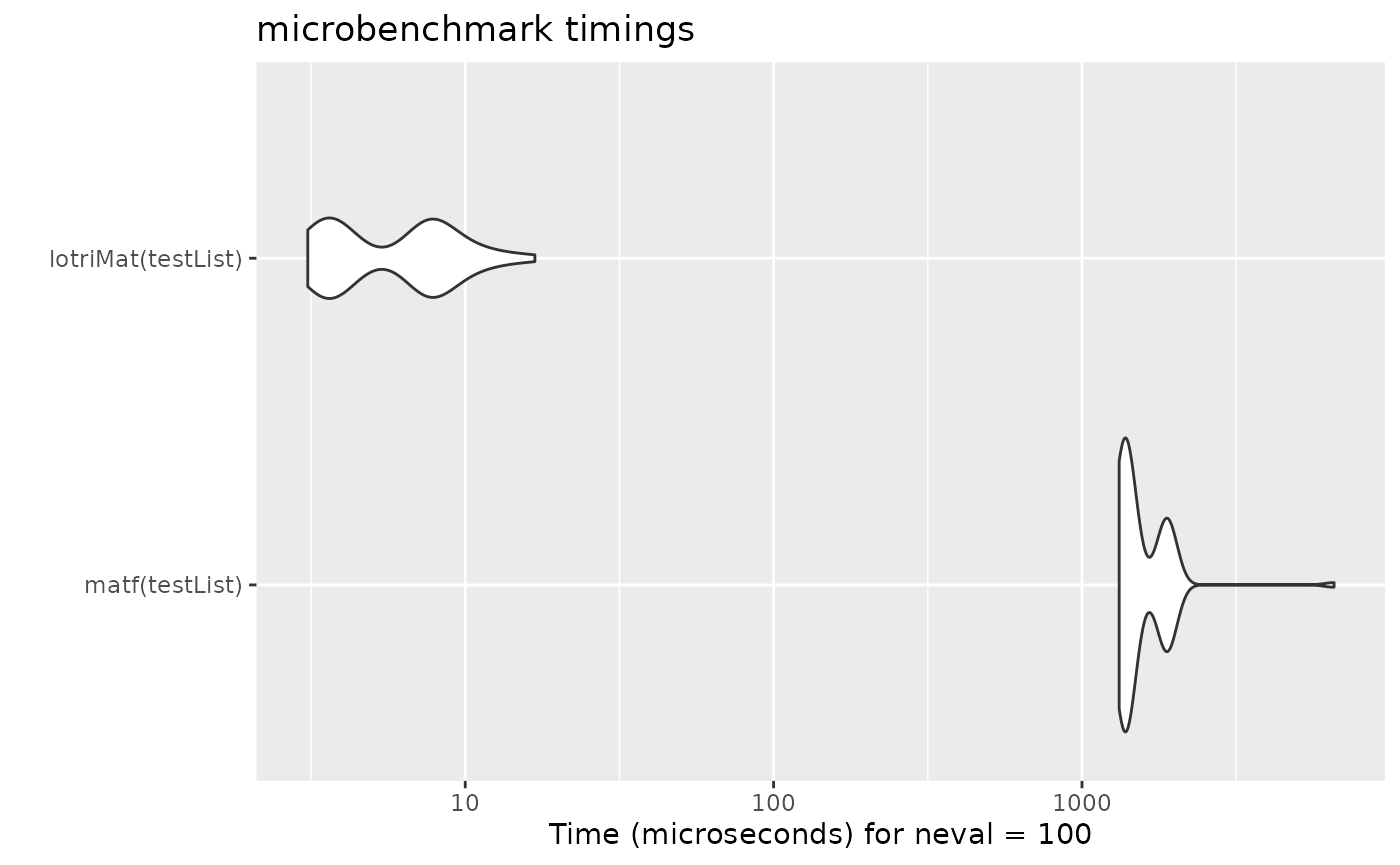
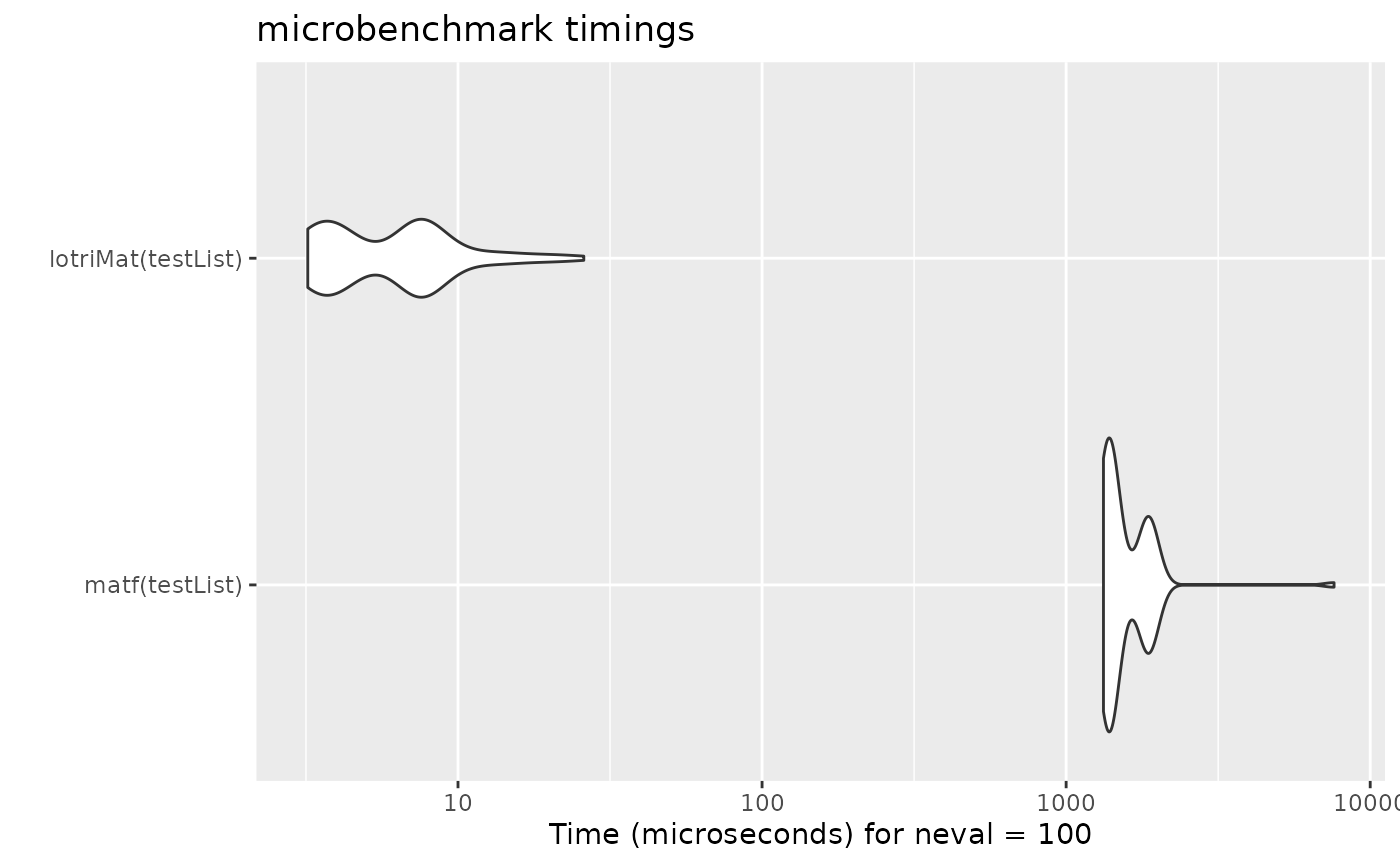
Deploying to gh-pages from @ nlmixr2/lotri@191af481f1d3182144ef876b7c04e082d0ac4536 🚀

diff --git a/reference/dot-lotriPointers.html b/reference/dot-lotriPointers.html
@@ -32,7 +32,7 @@
 <div class="row">
   <main id="main" class="col-md-9"><div class="page-header">
       <img src="../logo.png" class="logo" alt=""><h1>This function is used to get the pointers to the C objects that are used in the lotri package.</h1>
-      <small class="dont-index">Source: <a href="https://github.com/nlmixr2/lotri/blob/main/R/lotriPtrs.R" class="external-link"><code>R/lotriPtrs.R</code></a></small>
+      <small class="dont-index">Source: <a href="https://github.com/nlmixr2/lotri/blob/v1.0.0/R/lotriPtrs.R" class="external-link"><code>R/lotriPtrs.R</code></a></small>
       <div class="d-none name"><code>dot-lotriPointers.Rd</code></div>
     </div>
 
@@ -59,34 +59,34 @@
     <div class="sourceCode"><pre class="sourceCode r"><code><span class="r-in"><span></span></span>
 <span class="r-in"><span><span class="fu">.lotriPointers</span><span class="op">(</span><span class="op">)</span></span></span>
 <span class="r-out co"><span class="r-pr">#&gt;</span> $lotriLstToMat</span>
-<span class="r-out co"><span class="r-pr">#&gt;</span> &lt;pointer: 0x7f3417e36f40&gt;</span>
+<span class="r-out co"><span class="r-pr">#&gt;</span> &lt;pointer: 0x7f610ae92f40&gt;</span>
 <span class="r-out co"><span class="r-pr">#&gt;</span> </span>
 <span class="r-out co"><span class="r-pr">#&gt;</span> $asLotriMat</span>
-<span class="r-out co"><span class="r-pr">#&gt;</span> &lt;pointer: 0x7f3417e351b0&gt;</span>
+<span class="r-out co"><span class="r-pr">#&gt;</span> &lt;pointer: 0x7f610ae911b0&gt;</span>
 <span class="r-out co"><span class="r-pr">#&gt;</span> </span>
 <span class="r-out co"><span class="r-pr">#&gt;</span> $lotriSep</span>
-<span class="r-out co"><span class="r-pr">#&gt;</span> &lt;pointer: 0x7f3417e38f40&gt;</span>
+<span class="r-out co"><span class="r-pr">#&gt;</span> &lt;pointer: 0x7f610ae94f40&gt;</span>
 <span class="r-out co"><span class="r-pr">#&gt;</span> </span>
 <span class="r-out co"><span class="r-pr">#&gt;</span> $lotriAllNames</span>
-<span class="r-out co"><span class="r-pr">#&gt;</span> &lt;pointer: 0x7f3417e39510&gt;</span>
+<span class="r-out co"><span class="r-pr">#&gt;</span> &lt;pointer: 0x7f610ae95510&gt;</span>
 <span class="r-out co"><span class="r-pr">#&gt;</span> </span>
 <span class="r-out co"><span class="r-pr">#&gt;</span> $lotriGetBounds</span>
-<span class="r-out co"><span class="r-pr">#&gt;</span> &lt;pointer: 0x7f3417e35750&gt;</span>
+<span class="r-out co"><span class="r-pr">#&gt;</span> &lt;pointer: 0x7f610ae91750&gt;</span>
 <span class="r-out co"><span class="r-pr">#&gt;</span> </span>
 <span class="r-out co"><span class="r-pr">#&gt;</span> $lotriMaxNu</span>
-<span class="r-out co"><span class="r-pr">#&gt;</span> &lt;pointer: 0x7f3417e38a10&gt;</span>
+<span class="r-out co"><span class="r-pr">#&gt;</span> &lt;pointer: 0x7f610ae94a10&gt;</span>
 <span class="r-out co"><span class="r-pr">#&gt;</span> </span>
 <span class="r-out co"><span class="r-pr">#&gt;</span> $isLotri</span>
-<span class="r-out co"><span class="r-pr">#&gt;</span> &lt;pointer: 0x7f3417e393f0&gt;</span>
+<span class="r-out co"><span class="r-pr">#&gt;</span> &lt;pointer: 0x7f610ae953f0&gt;</span>
 <span class="r-out co"><span class="r-pr">#&gt;</span> </span>
 <span class="r-out co"><span class="r-pr">#&gt;</span> $lotriRcm</span>
-<span class="r-out co"><span class="r-pr">#&gt;</span> &lt;pointer: 0x7f3417e44490&gt;</span>
+<span class="r-out co"><span class="r-pr">#&gt;</span> &lt;pointer: 0x7f610aea0490&gt;</span>
 <span class="r-out co"><span class="r-pr">#&gt;</span> </span>
 <span class="r-out co"><span class="r-pr">#&gt;</span> $lotriNearPDc</span>
-<span class="r-out co"><span class="r-pr">#&gt;</span> &lt;pointer: 0x7f3417e3e7f0&gt;</span>
+<span class="r-out co"><span class="r-pr">#&gt;</span> &lt;pointer: 0x7f610ae9a7f0&gt;</span>
 <span class="r-out co"><span class="r-pr">#&gt;</span> </span>
 <span class="r-out co"><span class="r-pr">#&gt;</span> $lotriNearPDsexp</span>
-<span class="r-out co"><span class="r-pr">#&gt;</span> &lt;pointer: 0x7f3417e3ed60&gt;</span>
+<span class="r-out co"><span class="r-pr">#&gt;</span> &lt;pointer: 0x7f610ae9ad60&gt;</span>
 <span class="r-out co"><span class="r-pr">#&gt;</span> </span>
 </code></pre></div>
     </div>
@@ -99,7 +99,7 @@
 </div>
 
 <div class="pkgdown-footer-right">
-  <p>Site built with <a href="https://pkgdown.r-lib.org/" class="external-link">pkgdown</a> 2.1.0.</p>
+  <p>Site built with <a href="https://pkgdown.r-lib.org/" class="external-link">pkgdown</a> 2.1.1.</p>
 </div>
 
     </footer></div>

diff --git a/articles/lotri-motivation.html b/articles/lotri-motivation.html
@@ -65,9 +65,9 @@
                         <h4 data-toc-skip class="author">Matthew
 Fidler</h4>
             
-            <h4 data-toc-skip class="date">2024-09-17</h4>
+            <h4 data-toc-skip class="date">2024-09-20</h4>
       
-      <small class="dont-index">Source: <a href="https://github.com/nlmixr2/lotri/blob/main/vignettes/lotri-motivation.Rmd" class="external-link"><code>vignettes/lotri-motivation.Rmd</code></a></small>
+      <small class="dont-index">Source: <a href="https://github.com/nlmixr2/lotri/blob/v1.0.0/vignettes/lotri-motivation.Rmd" class="external-link"><code>vignettes/lotri-motivation.Rmd</code></a></small>
       <div class="d-none name"><code>lotri-motivation.Rmd</code></div>
     </div>
 
@@ -228,9 +228,9 @@ concatenation with <code>lotriMat</code></p>
 <span></span>
 <span><span class="fu"><a href="https://rdrr.io/r/base/print.html" class="external-link">print</a></span><span class="op">(</span><span class="va">mb</span><span class="op">)</span></span>
 <span><span class="co">#&gt; Unit: microseconds</span></span>
-<span><span class="co">#&gt;                expr      min       lq       mean   median       uq      max</span></span>
-<span><span class="co">#&gt;      matf(testList) 1320.123 1363.158 1586.04102 1417.069 1872.589 6568.926</span></span>
-<span><span class="co">#&gt;  lotriMat(testList)    3.086    3.742    6.43025    7.088    8.105   16.822</span></span>
+<span><span class="co">#&gt;                expr      min        lq       mean   median       uq      max</span></span>
+<span><span class="co">#&gt;      matf(testList) 1326.726 1371.4805 1598.07155 1407.292 1852.539 7606.430</span></span>
+<span><span class="co">#&gt;  lotriMat(testList)    3.206    3.8275    6.81062    6.933    7.875   25.928</span></span>
 <span><span class="co">#&gt;  neval</span></span>
 <span><span class="co">#&gt;    100</span></span>
 <span><span class="co">#&gt;    100</span></span>
@@ -249,7 +249,7 @@ concatenation with <code>lotriMat</code></p>
 </div>
 
 <div class="pkgdown-footer-right">
-  <p>Site built with <a href="https://pkgdown.r-lib.org/" class="external-link">pkgdown</a> 2.1.0.</p>
+  <p>Site built with <a href="https://pkgdown.r-lib.org/" class="external-link">pkgdown</a> 2.1.1.</p>
 </div>
 
     </footer>

diff --git a/news/index.html b/news/index.html
@@ -32,11 +32,11 @@
 <div class="row">
   <main id="main" class="col-md-9"><div class="page-header">
       <img src="../logo.png" class="logo" alt=""><h1>Changelog</h1>
-      <small>Source: <a href="https://github.com/nlmixr2/lotri/blob/main/NEWS.md" class="external-link"><code>NEWS.md</code></a></small>
+      <small>Source: <a href="https://github.com/nlmixr2/lotri/blob/v1.0.0/NEWS.md" class="external-link"><code>NEWS.md</code></a></small>
     </div>
 
     <div class="section level2">
-<h2 class="pkg-version" data-toc-text="1.0.0" id="lotri-100">lotri 1.0.0<a class="anchor" aria-label="anchor" href="#lotri-100"></a></h2>
+<h2 class="pkg-version" data-toc-text="1.0.0" id="lotri-100">lotri 1.0.0<a class="anchor" aria-label="anchor" href="#lotri-100"></a></h2><p class="text-muted">CRAN release: 2024-09-18</p>
 <ul><li>Added a new way of specifying lotri matrices:</li>
 </ul><p>Before you could specify matrices as:</p>
 <div class="sourceCode" id="cb1"><pre class="downlit sourceCode r">
@@ -132,7 +132,7 @@
 </div>
 
 <div class="pkgdown-footer-right">
-  <p>Site built with <a href="https://pkgdown.r-lib.org/" class="external-link">pkgdown</a> 2.1.0.</p>
+  <p>Site built with <a href="https://pkgdown.r-lib.org/" class="external-link">pkgdown</a> 2.1.1.</p>
 </div>
 
     </footer></div>

diff --git a/reference/rcm.html b/reference/rcm.html
@@ -34,7 +34,7 @@ which is used to permute the matrix to a banded matrix."><meta property="og:imag
 <div class="row">
   <main id="main" class="col-md-9"><div class="page-header">
       <img src="../logo.png" class="logo" alt=""><h1>Use the RCM algorithm to permute to banded matrix</h1>
-      <small class="dont-index">Source: <a href="https://github.com/nlmixr2/lotri/blob/main/R/rcm.R" class="external-link"><code>R/rcm.R</code></a></small>
+      <small class="dont-index">Source: <a href="https://github.com/nlmixr2/lotri/blob/v1.0.0/R/rcm.R" class="external-link"><code>R/rcm.R</code></a></small>
       <div class="d-none name"><code>rcm.Rd</code></div>
     </div>
 
@@ -107,7 +107,7 @@ which is used to permute the matrix to a banded matrix.</p>
 </div>
 
 <div class="pkgdown-footer-right">
-  <p>Site built with <a href="https://pkgdown.r-lib.org/" class="external-link">pkgdown</a> 2.1.0.</p>
+  <p>Site built with <a href="https://pkgdown.r-lib.org/" class="external-link">pkgdown</a> 2.1.1.</p>
 </div>
 
     </footer></div>

diff --git a/reference/lotriSep.html b/reference/lotriSep.html
@@ -34,7 +34,7 @@ not be useful for external function calls."><meta property="og:image" content="h
 <div class="row">
   <main id="main" class="col-md-9"><div class="page-header">
       <img src="../logo.png" class="logo" alt=""><h1>Separate a lotri matrix into above and below lotri matrices</h1>
-      <small class="dont-index">Source: <a href="https://github.com/nlmixr2/lotri/blob/main/R/lotri.R" class="external-link"><code>R/lotri.R</code></a></small>
+      <small class="dont-index">Source: <a href="https://github.com/nlmixr2/lotri/blob/v1.0.0/R/lotri.R" class="external-link"><code>R/lotri.R</code></a></small>
       <div class="d-none name"><code>lotriSep.Rd</code></div>
     </div>
 
@@ -144,7 +144,7 @@ you could use 'c(occ=3L)'</p></dd>
 </div>
 
 <div class="pkgdown-footer-right">
-  <p>Site built with <a href="https://pkgdown.r-lib.org/" class="external-link">pkgdown</a> 2.1.0.</p>
+  <p>Site built with <a href="https://pkgdown.r-lib.org/" class="external-link">pkgdown</a> 2.1.1.</p>
 </div>
 
     </footer></div>

diff --git a/reference/lotriAsExpression.html b/reference/lotriAsExpression.html
@@ -32,7 +32,7 @@
 <div class="row">
   <main id="main" class="col-md-9"><div class="page-header">
       <img src="../logo.png" class="logo" alt=""><h1>Change a matrix or lotri matrix to a lotri expression</h1>
-      <small class="dont-index">Source: <a href="https://github.com/nlmixr2/lotri/blob/main/R/as.expression.R" class="external-link"><code>R/as.expression.R</code></a></small>
+      <small class="dont-index">Source: <a href="https://github.com/nlmixr2/lotri/blob/v1.0.0/R/as.expression.R" class="external-link"><code>R/as.expression.R</code></a></small>
       <div class="d-none name"><code>lotriAsExpression.Rd</code></div>
     </div>
 
@@ -86,7 +86,7 @@ have a dimension above this number before names are displayed.</p></dd>
 </div>
 
 <div class="pkgdown-footer-right">
-  <p>Site built with <a href="https://pkgdown.r-lib.org/" class="external-link">pkgdown</a> 2.1.0.</p>
+  <p>Site built with <a href="https://pkgdown.r-lib.org/" class="external-link">pkgdown</a> 2.1.1.</p>
 </div>
 
     </footer></div>

diff --git a/reference/lotriMat.html b/reference/lotriMat.html
@@ -34,7 +34,7 @@ symmetric matrices."><meta property="og:image" content="https://nlmixr2.github.i
 <div class="row">
   <main id="main" class="col-md-9"><div class="page-header">
       <img src="../logo.png" class="logo" alt=""><h1>Create a matrix from a list of matrices</h1>
-      <small class="dont-index">Source: <a href="https://github.com/nlmixr2/lotri/blob/main/R/lotri.R" class="external-link"><code>R/lotri.R</code></a></small>
+      <small class="dont-index">Source: <a href="https://github.com/nlmixr2/lotri/blob/v1.0.0/R/lotri.R" class="external-link"><code>R/lotri.R</code></a></small>
       <div class="d-none name"><code>lotriMat.Rd</code></div>
     </div>
 
@@ -172,7 +172,7 @@ should start.</p></dd>
 </div>
 
 <div class="pkgdown-footer-right">
-  <p>Site built with <a href="https://pkgdown.r-lib.org/" class="external-link">pkgdown</a> 2.1.0.</p>
+  <p>Site built with <a href="https://pkgdown.r-lib.org/" class="external-link">pkgdown</a> 2.1.1.</p>
 </div>
 
     </footer></div>

diff --git a/reference/lotriNearPD.html b/reference/lotriNearPD.html
@@ -32,7 +32,7 @@
 <div class="row">
   <main id="main" class="col-md-9"><div class="page-header">
       <img src="../logo.png" class="logo" alt=""><h1>C++ implementation of Matrix's nearPD</h1>
-      <small class="dont-index">Source: <a href="https://github.com/nlmixr2/lotri/blob/main/R/lotriNearPD.R" class="external-link"><code>R/lotriNearPD.R</code></a></small>
+      <small class="dont-index">Source: <a href="https://github.com/nlmixr2/lotri/blob/v1.0.0/R/lotriNearPD.R" class="external-link"><code>R/lotriNearPD.R</code></a></small>
       <div class="d-none name"><code>lotriNearPD.Rd</code></div>
     </div>
 
@@ -226,7 +226,7 @@ more simple versions with a similar purpose
 </div>
 
 <div class="pkgdown-footer-right">
-  <p>Site built with <a href="https://pkgdown.r-lib.org/" class="external-link">pkgdown</a> 2.1.0.</p>
+  <p>Site built with <a href="https://pkgdown.r-lib.org/" class="external-link">pkgdown</a> 2.1.1.</p>
 </div>
 
     </footer></div>

diff --git a/reference/lotriDataFrameToLotriExpression.html b/reference/lotriDataFrameToLotriExpression.html
@@ -32,7 +32,7 @@
 <div class="row">
   <main id="main" class="col-md-9"><div class="page-header">
       <img src="../logo.png" class="logo" alt=""><h1>Convert a lotri data frame to a lotri expression</h1>
-      <small class="dont-index">Source: <a href="https://github.com/nlmixr2/lotri/blob/main/R/as.expression.R" class="external-link"><code>R/as.expression.R</code></a></small>
+      <small class="dont-index">Source: <a href="https://github.com/nlmixr2/lotri/blob/v1.0.0/R/as.expression.R" class="external-link"><code>R/as.expression.R</code></a></small>
       <div class="d-none name"><code>lotriDataFrameToLotriExpression.Rd</code></div>
     </div>
 
@@ -122,7 +122,7 @@
 </div>
 
 <div class="pkgdown-footer-right">
-  <p>Site built with <a href="https://pkgdown.r-lib.org/" class="external-link">pkgdown</a> 2.1.0.</p>
+  <p>Site built with <a href="https://pkgdown.r-lib.org/" class="external-link">pkgdown</a> 2.1.1.</p>
 </div>
 
     </footer></div>

diff --git a/reference/lotri.html b/reference/lotri.html
@@ -32,7 +32,7 @@
 <div class="row">
   <main id="main" class="col-md-9"><div class="page-header">
       <img src="../logo.png" class="logo" alt=""><h1>Easily Specify block-diagonal matrices with lower triangular info</h1>
-      <small class="dont-index">Source: <a href="https://github.com/nlmixr2/lotri/blob/main/R/lotri.R" class="external-link"><code>R/lotri.R</code></a></small>
+      <small class="dont-index">Source: <a href="https://github.com/nlmixr2/lotri/blob/v1.0.0/R/lotri.R" class="external-link"><code>R/lotri.R</code></a></small>
       <div class="d-none name"><code>lotri.Rd</code></div>
     </div>
 
@@ -264,7 +264,7 @@ implemented.</p></dd>
 </div>
 
 <div class="pkgdown-footer-right">
-  <p>Site built with <a href="https://pkgdown.r-lib.org/" class="external-link">pkgdown</a> 2.1.0.</p>
+  <p>Site built with <a href="https://pkgdown.r-lib.org/" class="external-link">pkgdown</a> 2.1.1.</p>
 </div>
 
     </footer></div>

diff --git a/reference/lotriMatInv.html b/reference/lotriMatInv.html
@@ -32,7 +32,7 @@
 <div class="row">
   <main id="main" class="col-md-9"><div class="page-header">
       <img src="../logo.png" class="logo" alt=""><h1>Converts a matrix into a list of block matrices</h1>
-      <small class="dont-index">Source: <a href="https://github.com/nlmixr2/lotri/blob/main/R/lotriMatInv.R" class="external-link"><code>R/lotriMatInv.R</code></a></small>
+      <small class="dont-index">Source: <a href="https://github.com/nlmixr2/lotri/blob/v1.0.0/R/lotriMatInv.R" class="external-link"><code>R/lotriMatInv.R</code></a></small>
       <div class="d-none name"><code>lotriMatInv.Rd</code></div>
     </div>
 
@@ -127,7 +127,7 @@
 </div>
 
 <div class="pkgdown-footer-right">
-  <p>Site built with <a href="https://pkgdown.r-lib.org/" class="external-link">pkgdown</a> 2.1.0.</p>
+  <p>Site built with <a href="https://pkgdown.r-lib.org/" class="external-link">pkgdown</a> 2.1.1.</p>
 </div>
 
     </footer></div>

diff --git a/reference/lotriEst.html b/reference/lotriEst.html
@@ -32,7 +32,7 @@
 <div class="row">
   <main id="main" class="col-md-9"><div class="page-header">
       <img src="../logo.png" class="logo" alt=""><h1>Extract or remove lotri estimate data frame from lotri object</h1>
-      <small class="dont-index">Source: <a href="https://github.com/nlmixr2/lotri/blob/main/R/thetaEst.R" class="external-link"><code>R/thetaEst.R</code></a></small>
+      <small class="dont-index">Source: <a href="https://github.com/nlmixr2/lotri/blob/v1.0.0/R/thetaEst.R" class="external-link"><code>R/thetaEst.R</code></a></small>
       <div class="d-none name"><code>lotriEst.Rd</code></div>
     </div>
 
@@ -101,7 +101,7 @@
 </div>
 
 <div class="pkgdown-footer-right">
-  <p>Site built with <a href="https://pkgdown.r-lib.org/" class="external-link">pkgdown</a> 2.1.0.</p>
+  <p>Site built with <a href="https://pkgdown.r-lib.org/" class="external-link">pkgdown</a> 2.1.1.</p>
 </div>
 
     </footer></div>
